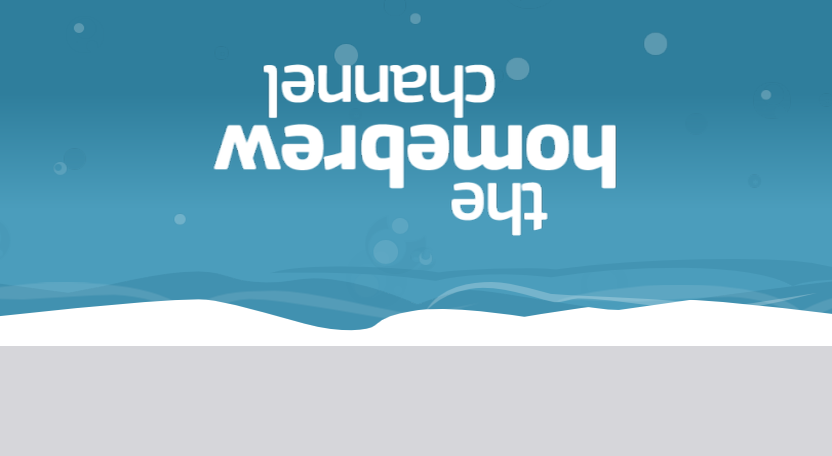
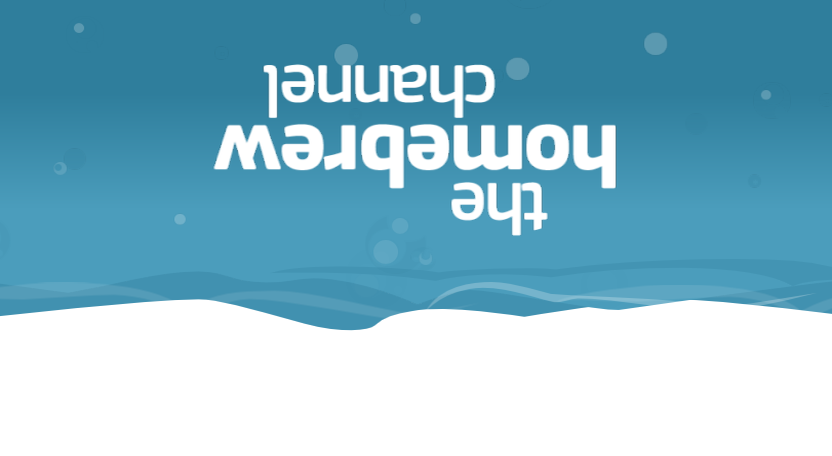
clean up screenshots and gif

Changed region(s): [[0.0, 0.7368, 1.0, 1.0]]

diff --git a/build/tools/make_previews.py b/build/tools/make_previews.py
@@ -1,4 +1,5 @@
-"""README previews: icon GIFs, banner stills and the flipped intro, in preview/."""
+"""README previews in preview/: icon GIFs and banner stills. banner_intro.gif is cut
+from a Dolphin recording of the real Wii Menu instead."""
 
 import os
 import sys
@@ -11,24 +12,14 @@ import render as R
 from hbcud import MENU_STRIP_Y, OUT, ROOT
 
 PREVIEW = os.path.join(ROOT, "preview")
-STRIP = (214, 214, 218)
+STRIP = (255, 255, 255)
 # 16:9 shows 810.67 x 456 layout units; render that and stretch to the export size.
 VIEWS = {"4_3": ((608, 456), (128, 96), (608, 456), (384, 288)),
          "16_9": ((811, 456), (171, 96), (832, 456), (528, 288))}
 
 
-# The Wii Menu's own button strip, cropped from a 16:9 Dolphin capture (836x456).
-REAL_STRIP = os.path.join(os.path.dirname(__file__), "assets", "menu_strip_16_9.png")
-REAL_STRIP_TOP = 339
-
-
-def real_strip(img):
-    img.paste(Image.open(REAL_STRIP).convert("RGB"), (0, REAL_STRIP_TOP))
-    return img
-
-
 def menu_view(img):
-    """Paint the Menu's button strip over the part of the banner it hides."""
+    """Blank out the part of the banner the Menu's button strip hides."""
     cut = round(img.height / 2 - MENU_STRIP_Y)
     img.paste(STRIP, (0, cut, img.width, img.height))
     return img
@@ -55,13 +46,6 @@ def main():
         frames = [R.render_frame(ip, im, it, icon, f, icanvas).resize(iout, Image.NEAREST)
                   for f in range(0, isize, step)]
         gif(frames, f"{PREVIEW}/icon_{name}.gif", step)
-
-    start, ssize = ba["banner_Start"]
-    step = 4
-    frames = [real_strip(R.render_frame(bp, bm, bt, start, f, (811, 456))
-                         .resize((836, 456), Image.LANCZOS)).resize((418, 228), Image.LANCZOS)
-              for f in range(0, ssize, step)]
-    gif(frames, f"{PREVIEW}/banner_intro.gif", step)
 
 
 if __name__ == "__main__":
